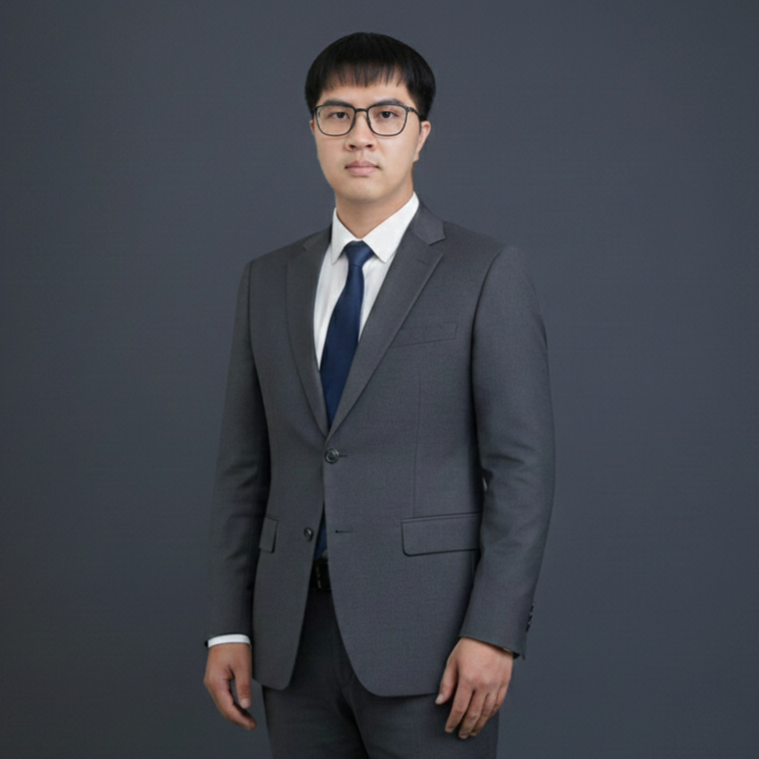
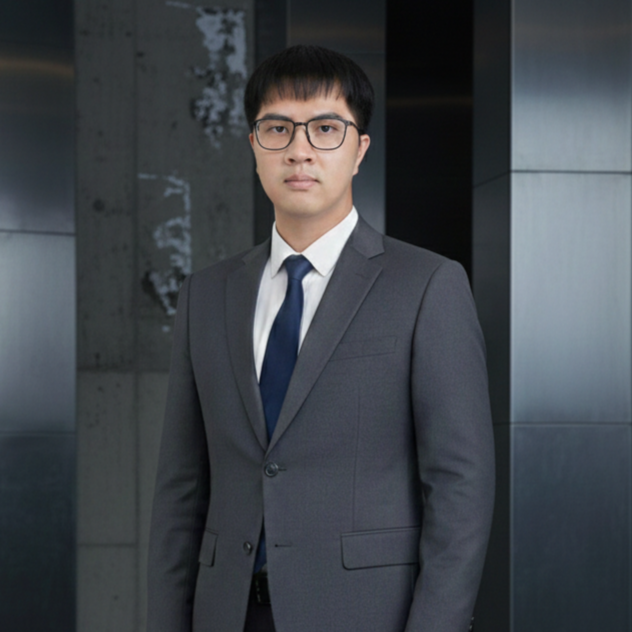
照片更換

diff --git a/index.html b/index.html
@@ -65,7 +65,7 @@
             <div class="row align-items-center">
 
                 <div class="col-md-4 text-center">
-                    <img src="個人照/個人照1.png"
+                    <img src="個人照/個人照.png"
                         class="rounded-circle shadow"
                         style="width: 230px; height: 230px; border: 4px solid #c5a059; padding: 4px; background: #0a0a0a;">
                 </div>
